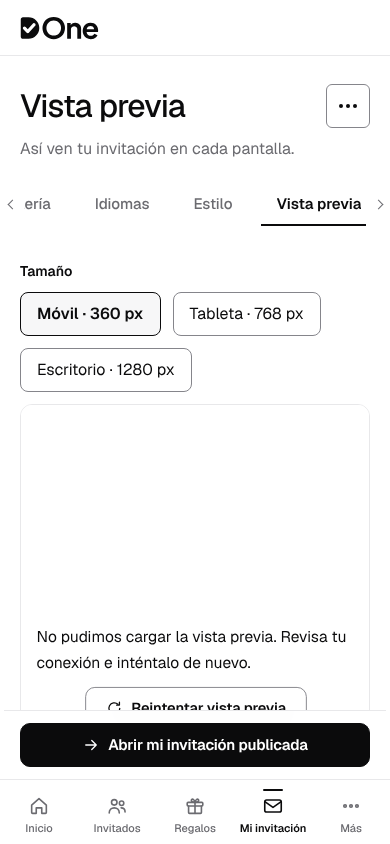
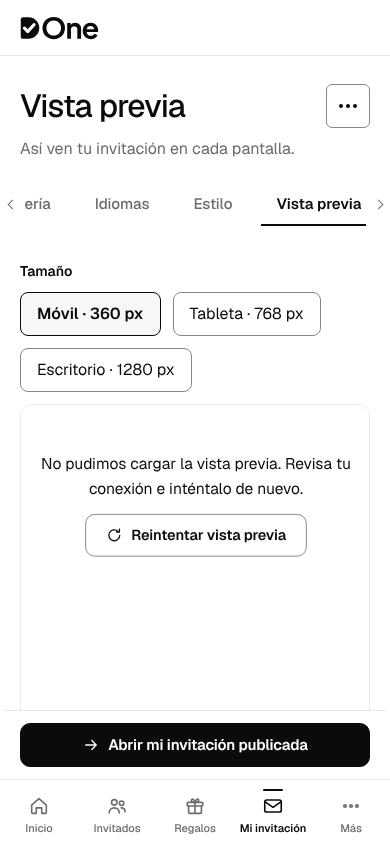
fix(app): estado misconfigured con ilustración neutra y textos propios; error de la vista previa fuera de la barra fija (PL-134-R3-M1, m1)
Claude-Session: https://claude.ai/code/session_01ATKb2KvLigb6KdicRVkqPt

diff --git a/packages/i18n/locales/es-BO/celebration.ts b/packages/i18n/locales/es-BO/celebration.ts
@@ -11,7 +11,7 @@ export const celebrationEsBO = {
   rsvp: { body: "Confirma tu asistencia desde el enlace personal que recibiste en tu invitación.", cta: "Confirmar asistencia", findLink: "Busca tu enlace personal" },
   gifts: { intro: "Reserva un regalo en un toque y nadie más regalará lo mismo.", cta: "Ver regalos", ctaEmpty: "Regalos: próximamente", ctaClosed: "Regalos: lista cerrada" },
   media: { pauseShort: "Pausar", openVideo: "Ver el video", openMusic: "Escuchar", openMap: "Ver el mapa", retryShort: "Reintentar", loading: "Cargando {{provider}}…", loadFailed: "No pudimos cargar {{provider}}. Revisa tu conexión e inténtalo de nuevo.", retry: "Reintentar: {{title}}", playVideo: "Ver el video: {{title}}", playMusic: "Escuchar: {{title}}", showMap: "Ver el mapa: {{title}}", privacy: "Al tocar, se carga contenido de {{provider}} y ese sitio puede recibir datos de tu visita.", play: "Reproducir {{title}}", pause: "Pausar {{title}}", progress: "Avance de {{title}}", audioError: "No pudimos reproducir la música. Inténtalo de nuevo." },
-  app: { invitationFrame: "Invitación", previewFrame: "Vista previa de la invitación", loading: "Cargando la invitación…", previewLoading: "Cargando la vista previa…", previewError: "No pudimos cargar la vista previa. Revisa tu conexión e inténtalo de nuevo.", previewRetry: "Reintentar vista previa" },
+  app: { invitationFrame: "Invitación", previewFrame: "Vista previa de la invitación", loading: "Cargando la invitación…", previewLoading: "Cargando la vista previa…", previewError: "No pudimos cargar la vista previa. Revisa tu conexión e inténtalo de nuevo.", previewRetry: "Reintentar vista previa", misconfiguredTitle: "Esta invitación no se puede abrir desde aquí", misconfiguredBody: "Quien te la compartió puede darte otro enlace. La lista de regalos sigue a un toque." },
   notFound: { title: "Esta celebración no está disponible", body: "Puede que el enlace esté mal escrito o que los anfitriones todavía no la hayan publicado.", home: "Ir al inicio" },
   meta: { description: "{{eventType}} · {{date}} · {{venue}}", fallbackDescription: "Toda la información de la celebración en un solo lugar.", sectionTitle: "{{section}} · {{title}}" },
   language: { label: "Idioma", "es-BO": "Español", "en-US": "English" },

diff --git a/packages/i18n/locales/en-US/celebration.ts b/packages/i18n/locales/en-US/celebration.ts
@@ -14,7 +14,7 @@ export const celebrationEnUS: DeepStrings<typeof celebrationEsBO> = {
   rsvp: { body: "Reply from the personal link you received with your invitation.", cta: "Reply now", findLink: "Find your personal link" },
   gifts: { intro: "Reserve a gift in one tap and nobody else will give the same one.", cta: "See gifts", ctaEmpty: "Gifts: coming soon", ctaClosed: "Gifts: list closed" },
   media: { pauseShort: "Pause", openVideo: "Watch the video", openMusic: "Listen", openMap: "Show the map", retryShort: "Try again", loading: "Loading {{provider}}…", loadFailed: "We could not load {{provider}}. Check your connection and try again.", retry: "Try again: {{title}}", playVideo: "Watch the video: {{title}}", playMusic: "Listen: {{title}}", showMap: "Show the map: {{title}}", privacy: "Tapping loads content from {{provider}}, and that site may receive data about your visit.", play: "Play {{title}}", pause: "Pause {{title}}", progress: "Progress of {{title}}", audioError: "We could not play the music. Try again." },
-  app: { invitationFrame: "Invitation", previewFrame: "Invitation preview", loading: "Loading the invitation…", previewLoading: "Loading the preview…", previewError: "We couldn't load the preview. Check your connection and try again.", previewRetry: "Retry preview" },
+  app: { invitationFrame: "Invitation", previewFrame: "Invitation preview", loading: "Loading the invitation…", previewLoading: "Loading the preview…", previewError: "We couldn't load the preview. Check your connection and try again.", previewRetry: "Retry preview", misconfiguredTitle: "This invitation can't be opened from here", misconfiguredBody: "Whoever shared it can send you another link. The gift list is still one tap away." },
   notFound: { title: "This celebration is not available", body: "The link may be mistyped, or the hosts have not published it yet.", home: "Go to the home page" },
   meta: { description: "{{eventType}} · {{date}} · {{venue}}", fallbackDescription: "Everything about the celebration in one place.", sectionTitle: "{{section}} · {{title}}" },
   language: { label: "Language", "es-BO": "Español", "en-US": "English" },

diff --git a/apps/universal/test/guest-invitation.test.tsx b/apps/universal/test/guest-invitation.test.tsx
@@ -2,7 +2,7 @@ import { act, fireEvent, screen } from "@testing-library/react";
 import { afterEach, beforeEach, describe, expect, it, vi } from "vitest";
 import { resetSecureStore } from "./stubs/expo-secure-store";
 import { resetWebViews, webViews } from "./stubs/react-native-webview";
-import { InvitationScreen, giftsRoute, invitationPath, replyPath } from "../src/guest/invitation-screen";
+import { InvitationScreen, Misconfigured, giftsRoute, invitationPath, replyPath } from "../src/guest/invitation-screen";
 import { clearGiftCredential, saveGiftCredential } from "../src/guest/gift-credential";
 import { groupOfPath } from "../src/auth/routes";
 import { GUEST_COLUMN } from "../src/guest/frame";
@@ -152,6 +152,19 @@ describe("P10 · A1 the public invitation in the app is the public page in a web
     show({ section: "inventado" });
     expect(screen.getByText("Esta celebración no está disponible")).toBeTruthy();
     expect(webViews.current).toBeNull();
+  });
+});
+
+describe("PL-134-R3-M1 · a deployment that cannot show the site", () => {
+  it("says so without promising a retry: neutral picture, no «de nuevo», no retry button, the gifts button still there", () => {
+    const { client } = fakeClient({});
+    const onNavigate = vi.fn();
+    renderApp(<Misconfigured slug={SLUG} onNavigate={onNavigate} />, client, GUEST);
+    expect(screen.getByText("Esta invitación no se puede abrir desde aquí")).toBeTruthy();
+    expect(document.body.textContent).not.toMatch(/de nuevo|intentar/i);
+    expect(screen.queryByTestId("guest-retry")).toBeNull();
+    fireEvent.click(screen.getByTestId("invitation-gifts"));
+    expect(onNavigate).toHaveBeenCalledWith(giftsRoute(SLUG));
   });
 });
 

diff --git a/apps/universal/src/host/invitation-preview.tsx b/apps/universal/src/host/invitation-preview.tsx
@@ -9,6 +9,9 @@ import { useT } from "../platform/providers";
 import { publicSiteOrigin } from "../platform/site-origin";
 import { ActionButton, useStyles } from "./ui";
 
+/** The host screens end with a fixed action bar: the error keeps clear of it, so its retry is never half covered. It starts near the top of the frame, which can run below the fold, and its text is centred. */
+const ERROR_BAR_CLEARANCE = spacing[16];
+
 /**
  * P10 · The invitation the host (or the admin) is editing, drawn by the public site's own renderer inside a web view: the app
  * hands the look, the content and the photos to the site's preview page, so the preview and the published page cannot differ.
@@ -30,8 +33,8 @@ export function InvitationPreview({ theme, view, gallery = [], title, testID }: 
   const failed = phase === "offline" || phase === "unavailable" || phase === "notFound";
   if (failed) {
     return (
-      <View role="alert" style={{ flex: 1, alignItems: "center", justifyContent: "center", gap: spacing[3], padding: spacing[4], backgroundColor: palette.canvas }} testID="preview-error">
-        <Text style={styles.body}>{t("celebration.app.previewError")}</Text>
+      <View role="alert" style={{ flex: 1, alignItems: "center", justifyContent: "flex-start", gap: spacing[3], padding: spacing[4], paddingTop: spacing[12], paddingBottom: ERROR_BAR_CLEARANCE, backgroundColor: palette.canvas }} testID="preview-error">
+        <Text style={[styles.body, { textAlign: "center" }]}>{t("celebration.app.previewError")}</Text>
         <ActionButton icon="refresh" variant="secondary" label={t("celebration.app.previewRetry")} onPress={retry} testID="preview-retry" />
       </View>
     );

diff --git a/apps/universal/src/guest/invitation-screen.tsx b/apps/universal/src/guest/invitation-screen.tsx
@@ -71,6 +71,12 @@ function Loading({ slug, onNavigate }: { readonly slug: string; readonly onNavig
   );
 }
 
+/** This deployment cannot show the site at all: nothing the guest does fixes it, so no retry and no «try again» in the words. */
+export function Misconfigured({ slug, onNavigate }: { readonly slug: string; readonly onNavigate: (path: string) => void }): ReactNode {
+  const t = useT();
+  return <LinkState illustration="maintenance" title={t("celebration.app.misconfiguredTitle")} body={t("celebration.app.misconfiguredBody")}><GiftsButton slug={slug} onNavigate={onNavigate} /></LinkState>;
+}
+
 function NotFound({ onNavigate }: { readonly onNavigate: (path: string) => void }): ReactNode {
   const t = useT();
   return (
@@ -102,9 +108,7 @@ function Invitation({ slug, only, onNavigate, openUrl = openExternally }: Invita
   if (phase === "notFound") return <NotFound onNavigate={onNavigate} />;
   // The site itself failing (5xx) or no connection: trying again can work. A deployment that would load this screen into itself
   // cannot be fixed by the guest: no retry, only the way to the gifts.
-  if (phase === "misconfigured") {
-    return <LinkState illustration="offline" title={t("rsvp.invite.unavailableTitle")} body={t("rsvp.invite.unavailableBody")}><GiftsButton slug={slug} onNavigate={onNavigate} /></LinkState>;
-  }
+  if (phase === "misconfigured") return <Misconfigured slug={slug} onNavigate={onNavigate} />;
   if (phase === "offline" || phase === "unavailable") {
     return <OfflineState unavailable={phase === "unavailable"} onRetry={retry}><GiftsButton slug={slug} onNavigate={onNavigate} /></OfflineState>;
   }

diff --git a/apps/universal/e2e/preview-states.spec.ts b/apps/universal/e2e/preview-states.spec.ts
@@ -12,6 +12,12 @@ test("PL-134-R2-m3 · the host preview shows the offline state when the site doe
   await expect(error).toBeVisible({ timeout: 30_000 });
   await expect(error).toHaveAttribute("role", "alert");
   await expect(error).toContainText("No pudimos cargar la vista previa");
+  // m1: the retry is not under the fixed action bar: the element at its centre is the retry itself.
+  const retry = page.getByTestId("preview-retry").first();
+  const box = await retry.boundingBox();
+  expect(box).not.toBeNull();
+  const covered = await retry.evaluate((node, point) => !node.contains(document.elementFromPoint(point.x, point.y)), { x: (box?.x ?? 0) + (box?.width ?? 0) / 2, y: (box?.y ?? 0) + (box?.height ?? 0) / 2 });
+  expect(covered).toBe(false);
   if (OUT) { mkdirSync(OUT, { recursive: true }); await page.screenshot({ path: `${OUT}/vista-previa-sin-red.png` }); }
   await page.getByTestId("preview-retry").first().click();
   await expect(page.getByTestId("preview-loading").first()).toBeVisible();

diff --git a/docs/progress/plantillas-f6b-nativo.md b/docs/progress/plantillas-f6b-nativo.md
@@ -44,3 +44,9 @@ Corrige: PL-F6 (P10), PL-L3. Rama `feat/plantillas-f6b-nativo` sobre `feat/plant
 - R2-M2: la sonda pide `/icon.svg` (estático), no la página. Límite: `no-cors` da una respuesta opaca; no se lee el estado, solo si el sitio responde. Un 5xx de la página lo muestra la página de error del sitio; en nativo sí se lee y se muestra `unavailable`.
 - R2-M3: una sola anchura (`GUEST_COLUMN`, 640 px) para carga, sin red y no disponible; e2e a 1440 compara ambas. Fase nueva `misconfigured` (despliegue que se cargaría a sí mismo): sin «Reintentar», solo «Ver regalos».
 - m1: el script en línea escapa `<` (`\u003c`). m2: el comentario del spec dice que hace falta `EXPO_PUBLIC_API_URL=/api` y `--clear`. m3: `apps/universal/e2e/preview-states.spec.ts` (config `playwright.states.config.ts`): vista previa del anfitrión con sesión simulada y el sitio sin responder; captura `vista-previa-sin-red.png`.
+
+## Ronda 3 (PL-134-R3-M1, m1)
+
+- R3-M1: `misconfigured` usa la ilustración `maintenance` y claves propias `celebration.app.misconfiguredTitle/Body` (es-BO, en-US), sin «de nuevo» ni reintento; queda «Ver regalos». Prueba: `guest-invitation.test.tsx`.
+- m1: el error de la vista previa arranca cerca del borde superior del marco, con el texto centrado y un hueco inferior reservado para la barra fija; `preview-states.spec.ts` comprueba que el centro de «Reintentar vista previa» no está cubierto (captura `vista-previa-sin-red.png`, 390×844).
+- Integrada la capa protegida rehecha de #131 (939b63a); `/model` sigue sin renderizador (prueba) y el bundle web `entry` pesa 2.359.429 B sin `postcss`.
